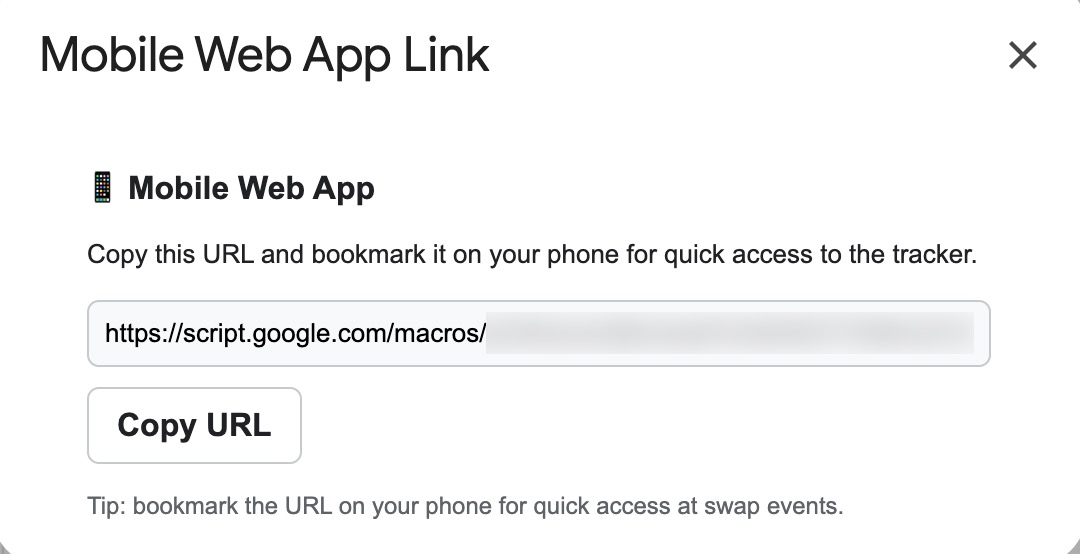
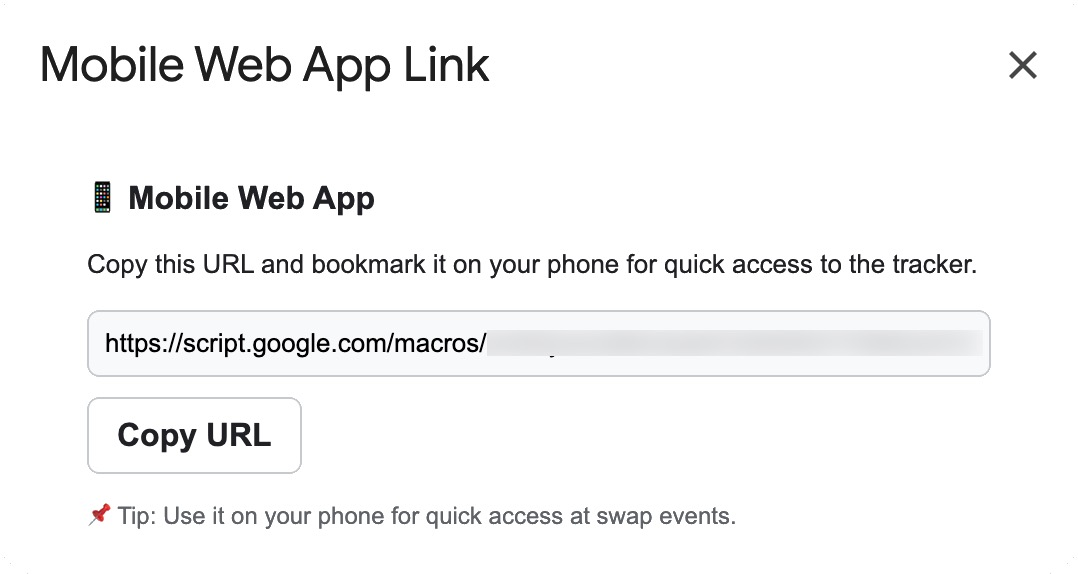
Fixed clear validation output issue in input service and improved doc

diff --git a/src/html/ImportView.html b/src/html/ImportView.html
@@ -215,14 +215,14 @@
       if (fileInputEl) fileInputEl.value = ''
       if (textInputEl) { textInputEl.value = ''; textInputEl.focus() }
       if (modeInputEl) modeInputEl.value = 'update'
-      Import.clearPreview()
+      Import.clearPreview({ previewEl })
       renderWarnings([]) // clear previous warnings immediately
       setMessage('Input cleared.', 'info')
     }
 
     /**Validates the current import input and renders a preview without writing data. */
     window.previewData = function () {
-      Import.clearPreview()
+      Import.clearPreview({ previewEl })
       renderWarnings([]) // clear previous warnings immediately
       Import.setBusy(true)
       setMessage('Validating input...', 'info')
@@ -235,7 +235,7 @@
         })
         .withFailureHandler((error) => {
           Import.setBusy(false)
-          Import.clearPreview()
+          Import.clearPreview({ previewEl })
           renderWarnings([]) // clear previous warnings immediately
           setMessage(error && error.message ? error.message : String(error), 'error')
         })
@@ -244,7 +244,7 @@
 
     /**Imports the current sticker payload into the spreadsheet. */
     window.importData = function () {
-      Import.clearPreview()
+      Import.clearPreview({ previewEl })
       renderWarnings([]) // clear previous warnings immediately
       Import.setBusy(true)
       setMessage('Importing data...', 'info')

diff --git a/src/html/WebAppLinkDialog.html b/src/html/WebAppLinkDialog.html
@@ -65,7 +65,7 @@
     <button class="btn" onclick="copyUrl(this)">Copy URL</button>
   </div>
   <p class="hint">
-    Tip: bookmark the URL on your phone for quick access at swap events.
+    📌 Tip: Use it on your phone for quick access at swap events.
   </p>
   <? } else { ?>
   <p class="message error">The web app has not been deployed yet.</p>

diff --git a/CHANGELOG.md b/CHANGELOG.md
@@ -10,7 +10,7 @@ project structure, and documentation.
 ## [1.1.2] 2026-07-22
 
 ### Overview
-The Quick Entry service now supports searching by sticker number in addition to country/team search using the search box. Refactored the Import service by splitting responsibilities into dedicated `ImportView.html` and `ImportHelp.html` files. Simplified `MobileImportView.html` by reusing helper functions from `ImportHelpers.html`. Refactored all `*View.html` and `MobileHome.html` files to use Immediately Invoked Function Expressions (IIFE), exposing only the required public functions through the global scope (`window.*`). Using font-size variables defined in `CommonStyles.html` and `MobileStyles.html` across all `*Styles.html` files.
+The Quick Entry service now supports searching by sticker number in addition to country/team search using the search box. Refactored the Import service by splitting responsibilities into dedicated `ImportView.html` and `ImportHelp.html` files. Simplified `MobileImportView.html` by reusing helper functions from `ImportHelpers.html`. Refactored all `*View.html` and `MobileHome.html` files to use Immediately Invoked Function Expressions (IIFE), exposing only the required public functions through the global scope (`window.*`). Using font-size variables defined in `CommonStyles.html` and `MobileStyles.html` across all `*Styles.html` files. Import service now clears any previous validation output while doing the next validation.
 
 ### Google Spreadsheet template
 - Added sheet `About` to provide information about the template versioning and version documentation.
@@ -35,6 +35,7 @@ The Quick Entry service now supports searching by sticker number in addition to 
     - Added the question: "Can I search by sticker number in the Quick Entry service?".
     - Added the question: "How can I identify the version of the template or the Apps Script project?".
     - Added the question: "Why are the template version and the Apps Script version different?".
+    - Added the question: "I don't see the About item in **Manage Panini** custom menu?".
   - `TechnicalArchitecture.md`:
     - Updated sections *4. UI Layer Engineering Rules* and *5. System Architecture* to document the Import service refactor with the new files: `ImportView.html` and `ImportHelp.html`. Documented the use of Immediately Invoked Function Expressions (IIFE) to expose only required functions.
     - Applied minor wording improvements in section *7. Continuous Integration (CI) Deployment Blueprint*.
@@ -136,6 +137,7 @@ The Quick Entry service now supports searching by sticker number in addition to 
 
 #### Fix
 - Removed Close/Cancel buttons from the mobile Import and Export implementations because these actions do not apply to the mobile navigation model.
+- In import service while doing a validation the previous output was not cleared, now after successive validation when the validation starts it clears the previous validation output, once the validation is finished, the generates the new validation output.
 
 ---
 

diff --git a/docs/FAQ.md b/docs/FAQ.md
@@ -75,6 +75,10 @@ Starting with release `1.1.2`, version information is available directly from bo
 - **Google Spreadsheet template:** Open the `About` sheet to view the current template version and the corresponding GitHub release information.
 - **Apps Script project:** From the **Manage Panini** custom menu, select **About** to view the current Apps Script version and related project information.
 
+### I don't see the About item in **Manage Panini** custom menu?
+
+If a new release updated the **Manage Panini** menu, you need to refresh your Google Spreadsheet template in order to see it.
+
 ### Why are the template version and the Apps Script version different?
 
 Starting with release `1.1.2`, both the Google Spreadsheet template and the Apps Script project are versioned independently, and each version is displayed within its respective product:

diff --git a/README.md b/README.md
@@ -574,7 +574,7 @@ In alphabetical order and organized by folders:
   - `panini-stickers-shared.txt`: Sample of Export shared stickers service output.
   - `panini-stickers-shared_flagTrue_compactTrue.txt`: Sample of Export shared stickers service with **Flag** and **Compact (using ranges)** checkboxes activated.
  
-- Under the `images` folder: Images used in the `README.md` file and `doc` folder documents.
+- Under the `images` folder: Images used in the `README.md` file and `docs` folder documents.
 
 - Under the `scripts` folder:
   - `build.js`: Prepares the `src/*.gs` and `src/html/*[Helpers|Render].html` files to be tested with Jest. It moves the files to `build` folder, change extension `.gs` $\rightarrow$ `.js`, add export module with classes and functions with `@export` tag and indicate the source file on top.
